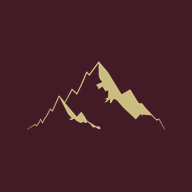
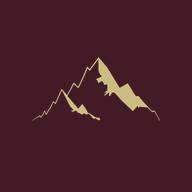
Porter l'icône et les rayons de l'app
## L'icône — les deux dépôts y étaient déjà d'accord sans le savoir

`ONT.icon/icon.json` donne deux nombres. Le fond est
`display-p3:0.23945, 0.11440, 0.14897` : converti en sRGB par les matrices
standard, il rend **exactement `#421B26`** — l'aubergine relevée au pixel sur le
combination mark. Rien à porter, et c'est vérifié plutôt que supposé.

La composition, elle, divergeait. La montagne occupe **66,7 %** du côté chez
l'app — 17 068 px × 0,04 sur un cadre de 1 024 — là où le site en mettait 72. Et
elle est **remontée** de 3,66 % : une montagne centrée géométriquement paraît
basse, parce que sa masse est en bas et sa pointe en haut. C'est un calage à
l'œil qu'on ne retrouverait pas par le calcul, et c'est précisément pour ça
qu'il fallait aller le lire.

## Les rayons — et un qui corrigeait un défaut décrit par l'app

Le site citait `ONTRadius.card`. Les quatre y sont maintenant, avec les mots de
l'app à côté : un rayon sans sa raison se retouche au jugé.

Celui de la feuille valait l'épreuve. Il est mesuré, pas choisi :

    Mesuré sur la feuille système d'iPadOS 27, qui arrondit à ~40 pt : à 22, la
    carte du Mac se lisait comme une boîte de dialogue, pas comme une feuille.

Le panneau « aA » du site était **à 22**. Il avait donc le défaut que l'app
décrit, mot pour mot, sans que personne l'ait nommé ici.

Une garde relit les quatre dans `ONTMetrics.swift` et les compare aux jetons,
à 16 px par rem — la base d'un navigateur, que le site ne change jamais. Elle
[…]

Changed region(s): [[0.125, 0.2812, 0.8438, 0.6875], [0.8438, 0.6562, 0.875, 0.6875]]

diff --git a/style/main.css b/style/main.css
@@ -251,8 +251,31 @@
      tombe de 56 % à 39 % sur téléphone, et le grand écran ne bouge pas. */
   --container-marque: clamp(9.5rem, 7.53rem + 8.09vw, 14rem);
 
-  /* `ONTRadius.card` — 22 points. */
+  /* ── Les rayons, et ils viennent tous d'`ONTRadius` ──────────────────────
+
+     Le site en citait un seul, `card`. Les quatre y sont maintenant, avec les
+     mots de l'app à côté — parce qu'un rayon sans sa raison se retouche au
+     jugé, et que celui de la feuille a une raison qu'on ne devinerait pas.  */
+
+  /* `ONTRadius.highlight` — 6 points, « juste assez pour adoucir l'angle ». */
+  --radius-surlignage: 0.375rem;
+
+  /* `ONTRadius.block` — 18 points. Les blocs secondaires. */
+  --radius-bloc: 1.125rem;
+
+  /* `ONTRadius.card` — 22 points. Les cartes de premier plan. */
   --radius-carte: 1.375rem;
+
+  /* `ONTRadius.feuille` — 34 points, et le nombre est mesuré, pas choisi :
+
+     > Mesuré sur la feuille système d'iPadOS 27, qui arrondit à ~40 pt : à 22,
+     > la carte du Mac se lisait comme une boîte de dialogue, pas comme une
+     > feuille. 34 et non 40 : la carte du Mac est bordée d'air, pas d'un bord
+     > d'écran, et le plein 40 y paraissait gonflé.
+
+     Le panneau « aA » du site était à 22 — il se lisait comme une boîte de
+     dialogue, exactement le défaut que l'app décrit. */
+  --radius-feuille: 2.125rem;
 
 }
 

diff --git a/scripts/images-sociales.py b/scripts/images-sociales.py
@@ -131,7 +131,29 @@ def apercu() -> None:
     print(f"  {fichier.name:18} {image.width}×{image.height}  {fichier.stat().st_size // 1024} Ko")
 
 
-def poser_icone(nom: str, cote: int, part: float) -> None:
+# ── La composition de l'icône de l'app, relevée chez elle ────────────────────
+#
+# `ONTBibleApp/app/ONT.icon/icon.json` — un paquet Icon Composer. Deux nombres
+# en sortent, et ils ne se devinent pas :
+#
+#     fill.solid   display-p3:0.23945, 0.11440, 0.14897
+#     position     scale 0,04 sur une image de 17 068 px, translation −37,52 pt
+#
+# **Le fond est l'aubergine du site, au chiffre près.** Converti de Display P3
+# vers sRGB par les matrices standard, il rend exactement `#421B26` — la teinte
+# relevée au pixel sur le combination mark. Les deux dépôts y étaient déjà
+# d'accord sans le savoir.
+#
+# La montagne, non. Elle occupe **66,7 %** du côté chez elle — 17 068 × 0,04 =
+# 682,7 pt sur un cadre de 1 024 — et le site en mettait 72. Et elle est
+# **remontée** de 37,52 pt, soit 3,66 % du côté : une montagne centrée
+# géométriquement paraît basse, parce que sa masse est en bas et sa pointe en
+# haut. C'est un calage à l'œil qu'on ne retrouverait pas par le calcul.
+PART_DE_L_APP = 682.72 / 1024
+REMONTEE_DE_L_APP = 37.5175 / 1024
+
+
+def poser_icone(nom: str, cote: int, part: float, remontee: float = 0.0) -> None:
     """Une icône carrée, opaque, montagne centrée.
 
     `part` est la fraction du côté qu'occupe la montagne. Elle change selon
@@ -141,7 +163,10 @@ def poser_icone(nom: str, cote: int, part: float) -> None:
     montagne = rasterise(IMAGES / "logomark.svg", int(cote * part), OR)
     image.paste(
         montagne,
-        ((cote - montagne.width) // 2, (cote - montagne.height) // 2),
+        (
+            (cote - montagne.width) // 2,
+            (cote - montagne.height) // 2 - round(cote * remontee),
+        ),
         montagne,
     )
     fichier = IMAGES / nom
@@ -171,9 +196,9 @@ def icones() -> None:
     pour qui masque. Déclarer la première comme masquable la ferait tronquer
     partout, et c'est le défaut le plus courant des manifestes.
     """
-    poser_icone("touch-icon.png", 180, 0.72)
-    poser_icone("icone-192.png", 192, 0.72)
-    poser_icone("icone-512.png", 512, 0.72)
+    poser_icone("touch-icon.png", 180, PART_DE_L_APP, REMONTEE_DE_L_APP)
+    poser_icone("icone-192.png", 192, PART_DE_L_APP, REMONTEE_DE_L_APP)
+    poser_icone("icone-512.png", 512, PART_DE_L_APP, REMONTEE_DE_L_APP)
     poser_icone("icone-masquable-512.png", 512, 0.50)
 
 

diff --git a/src/domaine/lecture.rs b/src/domaine/lecture.rs
@@ -978,6 +978,59 @@ mod epreuves_du_corps {
         }
     }
 
+    /// ## Les quatre rayons sont ceux d'`ONTRadius`
+    ///
+    /// Relus dans l'app, en points, et comparés aux jetons de la feuille, en
+    /// `rem`. La conversion est à `16 px = 1 rem` — la taille de base d'un
+    /// navigateur, que le site ne change jamais (c'est ce qui fait que le zoom
+    /// du lecteur commande, §5).
+    ///
+    /// **Le rayon de la feuille est celui qui valait l'épreuve.** Il est mesuré
+    /// et non choisi : « à 22, la carte du Mac se lisait comme une boîte de
+    /// dialogue, pas comme une feuille ». Le panneau « aA » du site était
+    /// précisément à 22.
+    #[test]
+    fn les_rayons_sont_ceux_de_l_app() {
+        let chemin =
+            "../ONTBibleApp/app/Packages/ONTDesignSystem/Sources/ONTDesignSystem/Tokens/ONTMetrics.swift";
+        let source = std::fs::read_to_string(chemin)
+            .unwrap_or_else(|erreur| panic!("  {chemin} est illisible : {erreur}"));
+        let feuille = include_str!("../../style/main.css");
+
+        for (la_bas, ici) in [
+            ("highlight", "--radius-surlignage"),
+            ("block", "--radius-bloc"),
+            ("card", "--radius-carte"),
+            ("feuille", "--radius-feuille"),
+        ] {
+            let points: f64 = source
+                .lines()
+                .find(|l| l.contains(&format!("static let {la_bas}:")))
+                .and_then(|l| l.split('=').nth(1))
+                .and_then(|v| v.trim().parse().ok())
+                .unwrap_or_else(|| panic!("  `ONTRadius.{la_bas}` est illisible"));
+
+            let rem: f64 = feuille
+                .lines()
+                .find(|l| l.trim_start().starts_with(&format!("{ici}:")))
+                .and_then(|l| l.split(':').nth(1))
+                .and_then(|v| {
+                    v.trim()
+                        .trim_end_matches(';')
+                        .trim_end_matches("rem")
+                        .parse()
+                        .ok()
+                })
+                .unwrap_or_else(|| panic!("  `{ici}` est illisible dans style/main.css"));
+
+            assert!(
+                (rem * 16.0 - points).abs() < 0.01,
+                "{ici} vaut {rem} rem soit {} px ; `ONTRadius.{la_bas}` vaut {points} pt",
+                rem * 16.0
+            );
+        }
+    }
+
     /// Le défaut laisse le site **exactement** tel qu'il était.
     ///
     /// `--lecture` vaut `corps / 19`. Au défaut il vaut 1, donc `calc(x * 1)`

diff --git a/src/interface/design/reglages_de_lecture.rs b/src/interface/design/reglages_de_lecture.rs
@@ -427,7 +427,7 @@ pub fn ReglagesDeLecture(preferences: RwSignal<Preferences>) -> impl IntoView {
                 // pouce, et c'est de là qu'elle monte. Sur un grand écran elle
                 // se pose au-dessus du bouton, à sa largeur, et croît depuis
                 // son coin : le mouvement dit d'où elle sort.
-                class="fixed inset-x-0 bottom-0 z-50 max-h-[85dvh] overflow-y-auto rounded-t-carte border-t border-filet bg-surface-haute px-6 pt-6 transition-[transform,opacity] duration-300 ease-out sm:inset-x-auto sm:end-6 sm:bottom-24 sm:w-96 sm:origin-bottom-right sm:rounded-carte sm:border motion-reduce:transition-none"
+                class="fixed inset-x-0 bottom-0 z-50 max-h-[85dvh] overflow-y-auto rounded-t-feuille border-t border-filet bg-surface-haute px-6 pt-6 transition-[transform,opacity] duration-300 ease-out sm:inset-x-auto sm:end-6 sm:bottom-24 sm:w-96 sm:origin-bottom-right sm:rounded-feuille sm:border motion-reduce:transition-none"
                 class=("translate-y-full", move || !ouvert.get())
                 class=("opacity-0", move || !ouvert.get())
                 class=("pointer-events-none", move || !ouvert.get())
